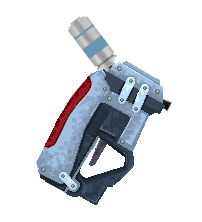
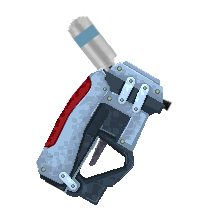
Sedation improvements, added healing injection capsule,

Changed region(s): [[0.3564, 0.1081, 0.5644, 0.2703], [0.4752, 0.2703, 0.5347, 0.3243]]

diff --git a/README.md b/README.md
@@ -1,2 +1,7 @@
 # Emergency Medical Mod
 This is a modification for the game Ostranauts, by Blue Bottle Games.
+
+Adds Medical items such as an Injector Tool with various drug capsules, such as:
+ - WakeUp - for rousing an unconscious patient
+ - SedateU - for sedating rowndy patients
+ - QuickHeal - for speeding up health recovery